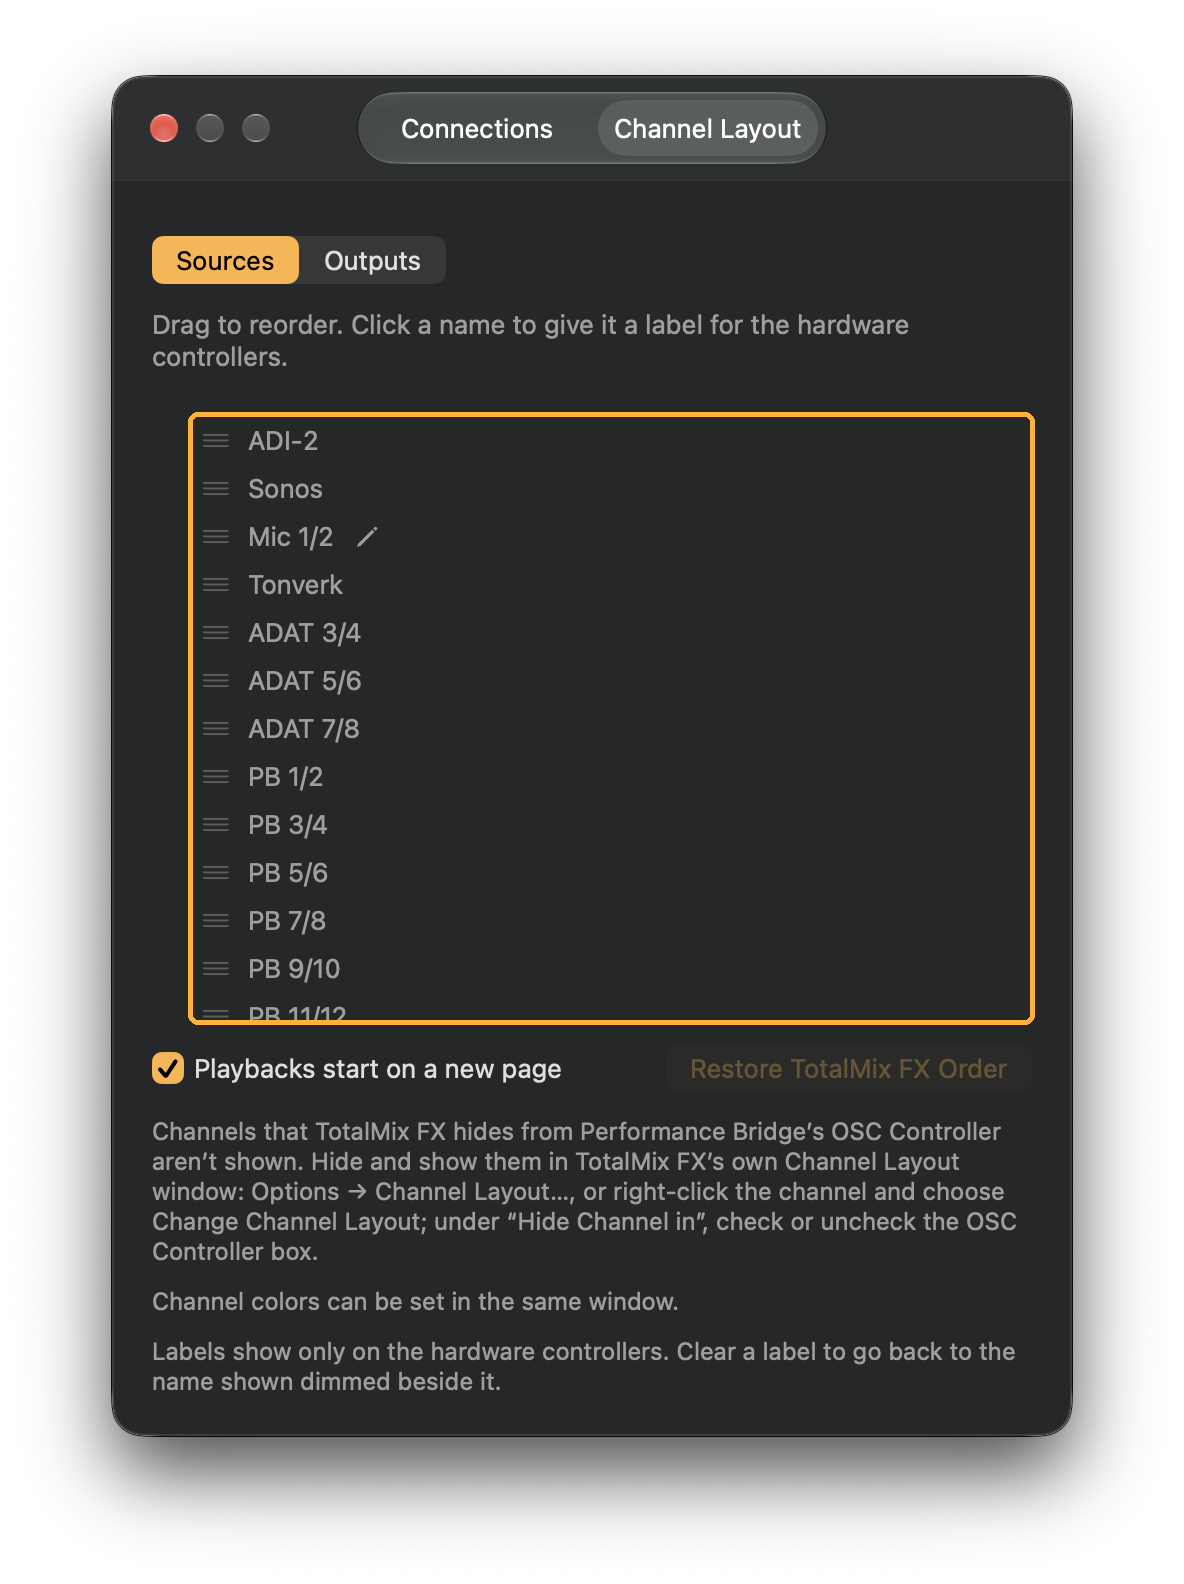
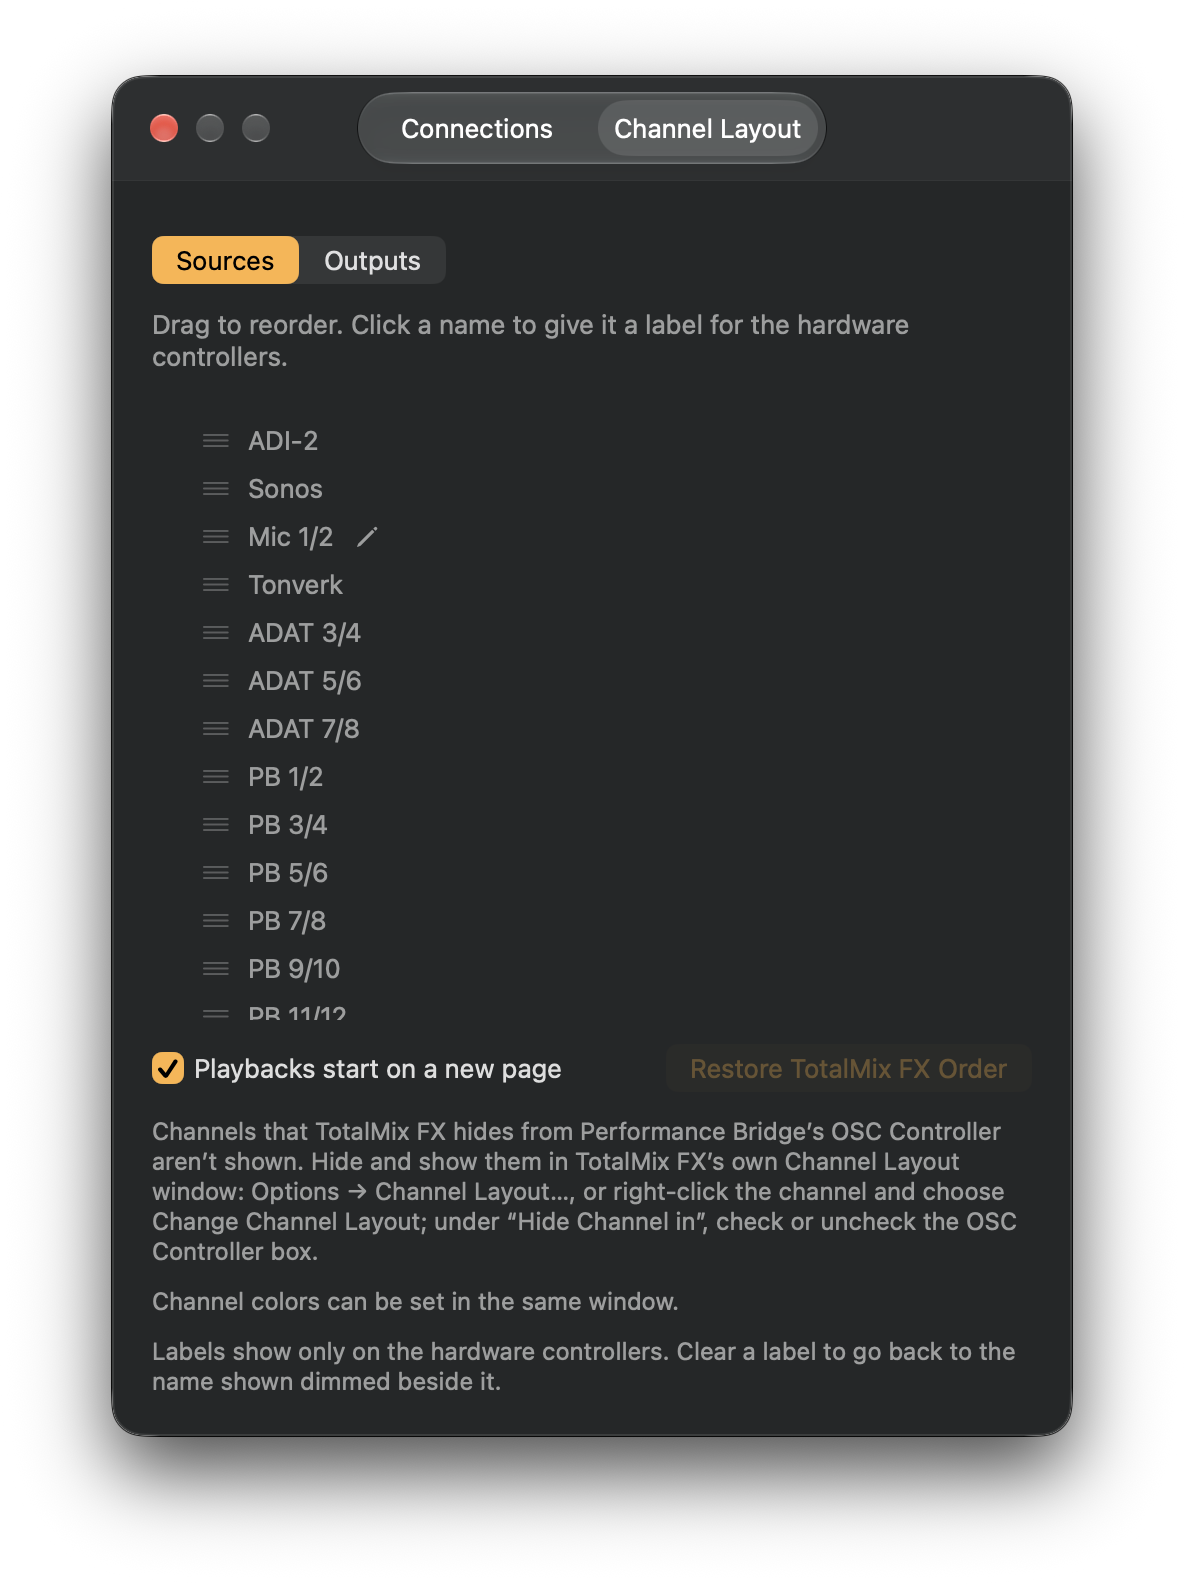
1.0.2: send reset on the encoder's display; screenshot boxes reviewed; test 22
- Shift + turn on a send: "Shift+turn: restore" / "Send restored" on the encoder's own display,
  restored when Shift is released. The overlay flashed too fast to read (Adam, 2026-11-02).
- Screenshots, after an independent review (Opus): no box on the About window or Performance
  Bridge's Channel Layout (the whole window is the setting); boxes moved clear of the controls
  (Live mode, Details, Select Controller, Cue/PFL to, the Controller menu). None on a page with no
  text, or on the version page while TotalMix FX isn't running.
- Text: the port step names "Port (outgoing)" and offers another port; item 7 names the Remote
  Controller Address host; the hide step says to select the row and refresh; "click Apply" after
  choosing a controller.
- TOTALMIX-OSC.md test 22: TotalMix FX sends nothing back for a remote's PFL, Live Mode off or on.

Claude-Session: https://claude.ai/code/session_01X1yiLTvABhQrk9UV12EPAV

Changed region(s): [[0.1562, 0.2475, 0.875, 0.6496]]

diff --git a/Sources/BridgeEngine/SetupChecklist.swift b/Sources/BridgeEngine/SetupChecklist.swift
@@ -63,7 +63,7 @@ public enum SetupChecklist {
                         state: .done, detail: "No other program is using port \(outgoing), so TotalMix FX’s messages can reach Performance Bridge.")
             : SetupStep(id: "port", title: "Port \(outgoing) is in use",
                         state: .problem,
-                        detail: "Another program is using port \(outgoing), the port TotalMix FX sends to. Quit it (for example, another OSC remote or a developer tool left running).\n\nPerformance Bridge keeps trying."))
+                        detail: "Another program is using port \(outgoing), the port TotalMix FX sends to (its “Port (outgoing)”, in Options → Mixer Settings… (F3) → OSC). Quit it (for example, another OSC remote or a developer tool left running), or choose another port, the same in TotalMix FX and in Performance Bridge’s Settings, on the Connections tab.\n\nPerformance Bridge keeps trying."))
 
         steps.append(versionStep(status: status, running: totalMixRunning, version: totalMixVersion))
 
@@ -78,7 +78,7 @@ public enum SetupChecklist {
             4. “Compatibility (Mode)”: Global OSC.
             5. “Port (incoming)”: \(incoming).
             6. Under “Remote Controller Address”, “Port (outgoing)”: \(outgoing).
-            7. “Host”: localhost (if Performance Bridge runs on this Mac).
+            7. Under “Remote Controller Address”, “Host”: localhost (if Performance Bridge runs on this Mac).
             [image: totalmix-osc-tab]
             8. Click Details and check “Send changes” and “Send status”.
             [image: totalmix-osc-details]
@@ -131,7 +131,7 @@ public enum SetupChecklist {
             steps.append(SetupStep(id: "roto", title: "Roto-Control found, connecting", state: .waiting, detail: rotoBusy))
         } else {
             steps.append(SetupStep(id: "roto", title: "Roto-Control not found", state: .waiting,
-                                   detail: "Connect the Roto-Control by USB. If it’s connected, try another cable or USB port.\n\nIf a Launch Control XL 3 or Launch Control 3 is plugged in instead, Performance Bridge switches to it by itself. Otherwise, choose it in Performance Bridge’s Settings, on the Connections tab."))
+                                   detail: "Connect the Roto-Control by USB. If it’s connected, try another cable or USB port.\n\nIf a Launch Control XL 3 or Launch Control 3 is plugged in instead, Performance Bridge switches to it by itself. Otherwise, choose it in Performance Bridge’s Settings, on the Connections tab, and click Apply."))
         }
 
         if let name = status.launchControlName {
@@ -144,7 +144,7 @@ public enum SetupChecklist {
                                        detail: "If it stays here, quit any other program that uses its DAW ports, such as a DAW with its Launch Control integration."))
             } else {
                 steps.append(SetupStep(id: "launchcontrol", title: "\(name) not found", state: .waiting,
-                                       detail: "Connect the Launch Control by USB. If it’s connected, check that the model chosen in Performance Bridge’s Settings, on the Connections tab, is the one connected, then try another cable or USB port."))
+                                       detail: "Connect the Launch Control by USB. If it’s connected, check that the model chosen in Performance Bridge’s Settings, on the Connections tab, is the one connected (click Apply after changing it), then try another cable or USB port."))
             }
         }
 
@@ -160,7 +160,7 @@ public enum SetupChecklist {
         let colorTip = status.launchControlName == nil ? ""
             : " Give each output the send rows feed (e.g., each headphone output) a color of its own: a send row lights in its output’s color, so the color shows which output it feeds."
         steps.append(SetupStep(id: "hide", title: "Hide channels in TotalMix FX", state: .instruction,
-                               detail: "Hide and show channels in TotalMix FX: choose Options → Channel Layout…, or right-click the channel and choose Change Channel Layout. Under “Hide Channel in”, check or uncheck the box for Performance Bridge’s OSC Controller.\n\nChannel colors can be set in the same window." + colorTip))
+                               detail: "Hide and show channels in TotalMix FX: choose Options → Channel Layout…, select the channel’s row (on the Inputs, Playbacks, or Outputs tab), and under “Hide Channel in”, check or uncheck the box for Performance Bridge’s OSC Controller. Or right-click the channel and choose Change Channel Layout.\n\nThen choose Refresh Channels from TotalMix FX from Performance Bridge’s menu, since TotalMix FX doesn’t announce the change.\n\nChannel colors can be set in the same window." + colorTip))
         steps.append(SetupStep(id: "order", title: "Set the order of the channels", state: .optional,
                                detail: "Set the order of the channels, and give them short labels for the hardware controllers, on the Channel Layout tab of Performance Bridge’s Settings."))
         return steps

diff --git a/Sources/LaunchControlDriver/LaunchControlDriver.swift b/Sources/LaunchControlDriver/LaunchControlDriver.swift
@@ -136,6 +136,9 @@ public struct LaunchControlDriver: Sendable {
     private var sentPositions: [UInt8: UInt8] = [:]  // control number → position
     private var sentColors: [UInt8: LightColor] = [:]  // control number → color sent
     private var sentTexts: [String: String] = [:]  // "target/field" → text
+    /// Encoders whose display says a send was reset (`reset`), drawn as usual again when Shift is
+    /// released.
+    private var resetShown: [(Layer, Int)] = []
     private var sentConfig: [UInt8: UInt8] = [:]  // target byte → arrangement and flags
 
     /// How close to the level a fader's first value must be for the hub's pickup to take it, as a
@@ -374,6 +377,10 @@ public struct LaunchControlDriver: Sendable {
             shiftDownAt = pressed ? now : nil
             shiftUsedForNavigation = false
             resetThisShift = []
+            if !pressed {
+                for (layer, strip) in resetShown { step.midi += drawStrip(layer, strip, hub: hub) }
+                resetShown = []
+            }
             // Page and Track light for what they do with Shift held, and back on release.
             step.midi += drawNavigation(hub: hub)
         case .button(Self.functionButton, let pressed) where layout == .lc3:
@@ -638,14 +645,17 @@ public struct LaunchControlDriver: Sendable {
         guard let position = resetPosition(layer, current: current, previous: sendsBeforeReset[target]) else { return }
         if case .strips(_, _, .send, _) = mode(for: layer, first: 0) {
             if position == 0 { sendsBeforeReset[target] = current } else { sendsBeforeReset[target] = nil }
-            // Silencing a send is the one reset that takes something away, so say how to undo it
-            // (Adam, 2026-11-02, from the UI review of that date).
-            step.midi += position == 0
-                ? overlay("Send off (-oo)", "Shift+turn: restore")
-                : overlay("Send restored", ValueText.level(position: position))
         }
         take(hub.controlMoved(id(layer), strip: strip, to: position, now: now), hub: hub, into: &step)
         step.midi += drawOwnMove(layer, strip, hub: hub)
+        if case .strips(_, _, .send, _) = mode(for: layer, first: 0) {
+            // Silencing a send is the one reset that takes something away, so say how to undo it
+            // (Adam, 2026-11-02, from the UI review of that date). On the encoder's own display,
+            // which the turn brings up: the overlay was covered by it at once (Adam, 2026-11-02);
+            // its function line comes back when Shift is released.
+            step.midi += text(.control(element), 1, position == 0 ? "Shift+turn: restore" : "Send restored")
+            resetShown.append((layer, strip))
+        }
         let value = deviceValue(layer, position)
         guard connected, !inCustomMode, sentPositions[element.controlNumber] != value else { return }
         sentPositions[element.controlNumber] = value

diff --git a/Tests/LaunchControlDriverTests/LaunchControlDriverTests.swift b/Tests/LaunchControlDriverTests/LaunchControlDriverTests.swift
@@ -483,19 +483,22 @@ final class LaunchControlDriverTests: XCTestCase {
         _ = driver.receive([0xB6, 0x3F, 0x7F], hub: &hub, now: 1)
         let reset = driver.receive([0xBE, 0x0D, 0x7F], hub: &hub, now: 1.4)
         XCTAssertFalse(reset.core.messages.isEmpty, "the send goes to -oo")
-        XCTAssertTrue(reset.midi.contains(LaunchControlOutgoing.text(.overlay, field: 0, "Send off (-oo)") ?? [1]))
-        XCTAssertTrue(reset.midi.contains(LaunchControlOutgoing.text(.overlay, field: 1, "Shift+turn: restore") ?? [1]))
-        _ = driver.receive([0xB6, 0x3F, 0x00], hub: &hub, now: 2)
+        // On the encoder's own display (top 1), which the turn brings up; the overlay was covered.
+        let encoder = LaunchControlDisplayTarget.control(.encoder(row: 0, column: 0))
+        XCTAssertTrue(reset.midi.contains(LaunchControlOutgoing.text(encoder, field: 1, "Shift+turn: restore") ?? [1]))
+        let release = driver.receive([0xB6, 0x3F, 0x00], hub: &hub, now: 2)
+        XCTAssertFalse(release.midi.isEmpty, "Shift released: the encoder's function line comes back")
         _ = driver.receive([0xB6, 0x3F, 0x7F], hub: &hub, now: 3)
         let restore = driver.receive([0xBE, 0x0D, 0x7F], hub: &hub, now: 3.4)
-        XCTAssertTrue(restore.midi.contains(LaunchControlOutgoing.text(.overlay, field: 0, "Send restored") ?? [1]))
+        XCTAssertTrue(restore.midi.contains(LaunchControlOutgoing.text(encoder, field: 1, "Send restored") ?? [1]))
         // Pan resets say nothing extra.
         _ = driver.receive([0xB6, 0x3F, 0x00], hub: &hub, now: 4)
         _ = driver.receive([0xBF, 0x1D, 127], hub: &hub, now: 4.1)
         _ = driver.receive([0xB6, 0x3F, 0x7F], hub: &hub, now: 5)
         let panReset = driver.receive([0xBE, 0x1D, 0x7F], hub: &hub, now: 5.4)
         XCTAssertFalse(panReset.core.messages.isEmpty, "the pan goes to the center")
-        XCTAssertFalse(panReset.midi.contains(LaunchControlOutgoing.text(.overlay, field: 1, "Shift+turn: restore") ?? [1]))
+        XCTAssertFalse(panReset.midi.contains(LaunchControlOutgoing.text(.control(.encoder(row: 2, column: 0)), field: 1,
+                                                                          "Shift+turn: restore") ?? [1]))
     }
 
     func testAMuteOrPFLPressSaysSoOnTheScreen() {

diff --git a/App/PerformanceBridge/SetupWindow.swift b/App/PerformanceBridge/SetupWindow.swift
@@ -228,7 +228,13 @@ struct SetupView: View {
     /// pixels), no wider than the page, with an exact height so no space is left around it.
     @ViewBuilder
     private func screenshots(for step: SetupStep) -> some View {
-        let names = (shots[step.id] ?? []).filter { Brand.resources.image(forResource: $0) != nil }
+        // None where the page has nothing to say about them: a step with no text (e.g., TotalMix FX
+        // not answering yet, on the channels page), or the version page while TotalMix FX isn't
+        // running (review of 2026-11-02).
+        let unexplained = step.detail.isEmpty && step.state != .done
+        let notRunning = step.id == "version" && step.state == .waiting
+        let names = unexplained || notRunning ? []
+            : (shots[step.id] ?? []).filter { Brand.resources.image(forResource: $0) != nil }
         if !names.isEmpty {
             VStack(alignment: .leading, spacing: 6) {
                 // Named for the app the screenshots show.

diff --git a/docs/TOTALMIX-OSC.md b/docs/TOTALMIX-OSC.md
@@ -61,8 +61,10 @@ with neither a footnote nor a test record behind it is an inference, and says so
     window](#test-20-2026-11-02-changes-made-in-totalmix-fxs-window).
 [^test-21]: Test 21 (2026-11-02), section 6: [the Cue/PFL to
     menu](#test-21-2026-11-02-the-cuepfl-to-menu).
+[^test-22]: Test 22 (2026-11-02), section 6: [no answer to a PFL, Live Mode off or
+    on](#test-22-2026-11-02-no-answer-to-a-pfl-live-mode-off-or-on).
 
-**Status.** Twenty-one tests so far (section 6). Tests 1–5 cover what TotalMix FX sends with "Send
+**Status.** Twenty-two tests so far (section 6). Tests 1–5 cover what TotalMix FX sends with "Send
 faders in linear scale" off and on, and the fader messages it accepts; the later ones cover hiding,
 the control room, settings files, names, groups, and the marks and wheel scales the hardware
 controllers copy.
@@ -518,4 +520,20 @@ and its "Cue/PFL to" submenu, and took a screenshot (published as
   a note saying to choose a headphone output. A planned interlock that would block PFL while it is
   Main (Adam, 2026-11-02) waits for a way to read the setting.
 - What `cuechan` does report is not known; the inference is an output whose CUE button is on.
+
+### Test 22 (2026-11-02): no answer to a PFL, Live Mode off or on
+
+**Setup.** TotalMix FX "2.10 (1)" with a Digiface AES, controller 1 (ports 7001 and 9001), "Re-send
+received" off in Details. Performance Bridge quit. `sbdev roundtrip /input/0/pfl 1` (the ADI-2
+input), once with Live Mode off and once on (`pfl-livemode-off-1102.log`, `pfl-livemode-on-1102.log`).
+
+**Findings:**
+- Both times, nothing came back within 1 s (status and level messages left out).
+- With Live Mode on, the ADI-2 input's PFL button lit in TotalMix FX's window (seen).
+
+**Consequence.** TotalMix FX doesn't answer a PFL sent by a remote whether or not Live Mode is on,
+so the answer can't tell the app that a PFL did nothing; Live Mode still can't be read (test 6).
+The hardware controllers light PFL when pressed, and the Setup Guide keeps its note to turn Live
+Mode on. Inference, not tested: with "Re-send received" on, TotalMix FX might send the PFL back
+in both cases alike.
 

diff --git a/docs/LAUNCH-CONTROL-XL3.md b/docs/LAUNCH-CONTROL-XL3.md
@@ -320,9 +320,10 @@ port names.
     Keep absolute mode if 1, 2, and 4 sound smooth and 3 is comfortable. If trims or fades are
     audibly stepped, or 2 is too coarse, use relative mode with finer steps (e.g., 0.1 dB for a
     slow step, more as the device accelerates).
-13. **The send-reset overlay.** In the app (1.0.2 or later), hold Shift a moment and turn a send
-    encoder: does the screen show "Send off (-oo)" / "Shift+turn: restore", or the encoder's own
-    display? Release Shift, then Shift + turn it again: "Send restored"?
+13. **The send-reset text.** Run in part: the overlay flashed too fast to read (Adam, 2026-11-02).
+    Now on the encoder's display: in the app (1.0.2 or later), hold Shift a moment and turn a send
+    encoder. Does its display read "Shift+turn: restore"? Release Shift: is its middle line the send
+    ("> Phones 1") again? Then Shift + turn it again: "Send restored"?
 
 ## 9. How Performance Bridge uses it
 
@@ -370,10 +371,11 @@ Adam (Adam asked for its efficiency and intuitiveness to be assessed).
   - a level (the Launch Control 3's) above 0 dB comes down to 0 dB, and one at or below 0 dB
     stays: a reset never raises a level;
   - a send goes to −oo, and a second Shift + turn, after Shift is released and held again, brings it
-    back to where it was; the overlay is meant to say "Send off (-oo)" / "Shift+turn: restore",
-    then "Send restored" (Adam, 2026-11-02, from the UI review of that date; not yet seen on the
-    device, where the encoder's own display, which the turn brings up, may cover it: section 8,
-    item 13);
+    back to where it was; the encoder's own display then reads "Shift+turn: restore", then "Send
+    restored", on its middle line, which comes back when Shift is released (Adam, 2026-11-02, from
+    the UI review of that date). The overlay was tried first and flashed too fast to read, covered
+    at once by the encoder's display (seen by Adam, 2026-11-02); the encoder's display hasn't been
+    seen yet (section 8, item 13);
   - only once Shift has been held 0.3 s with no Page or Track press, and once per encoder per hold
     of Shift.
 
